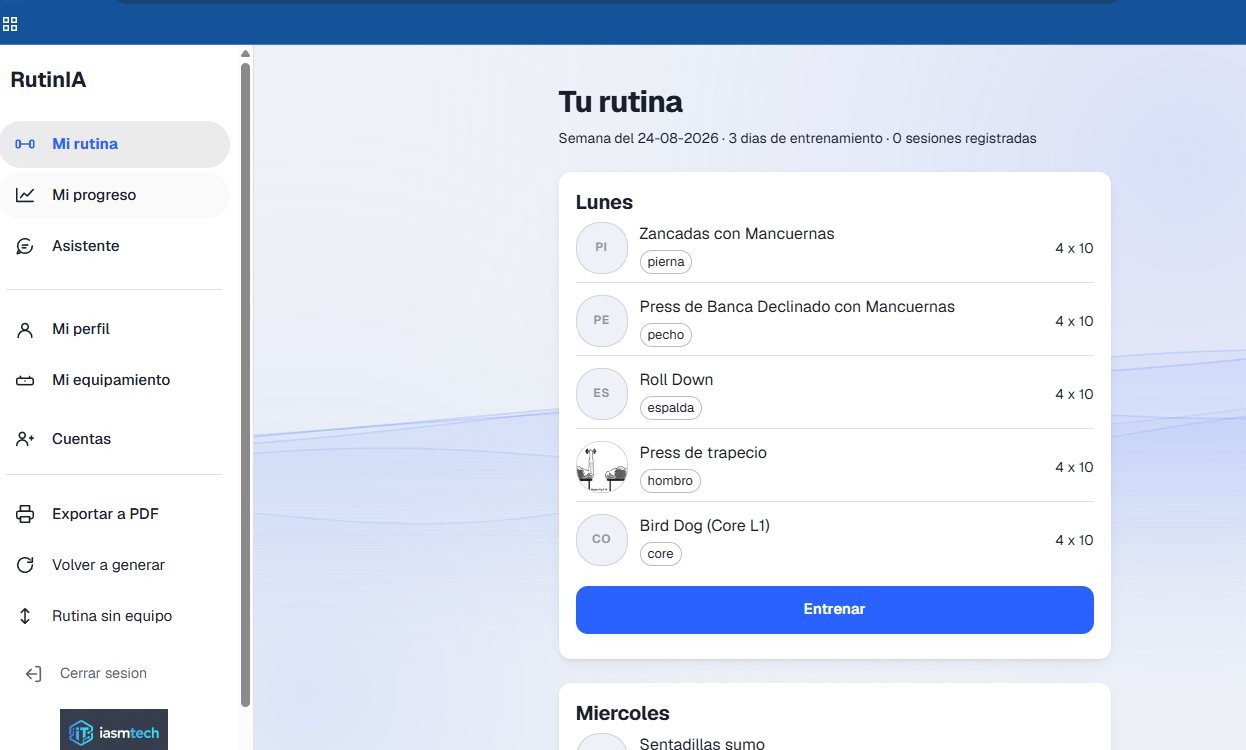
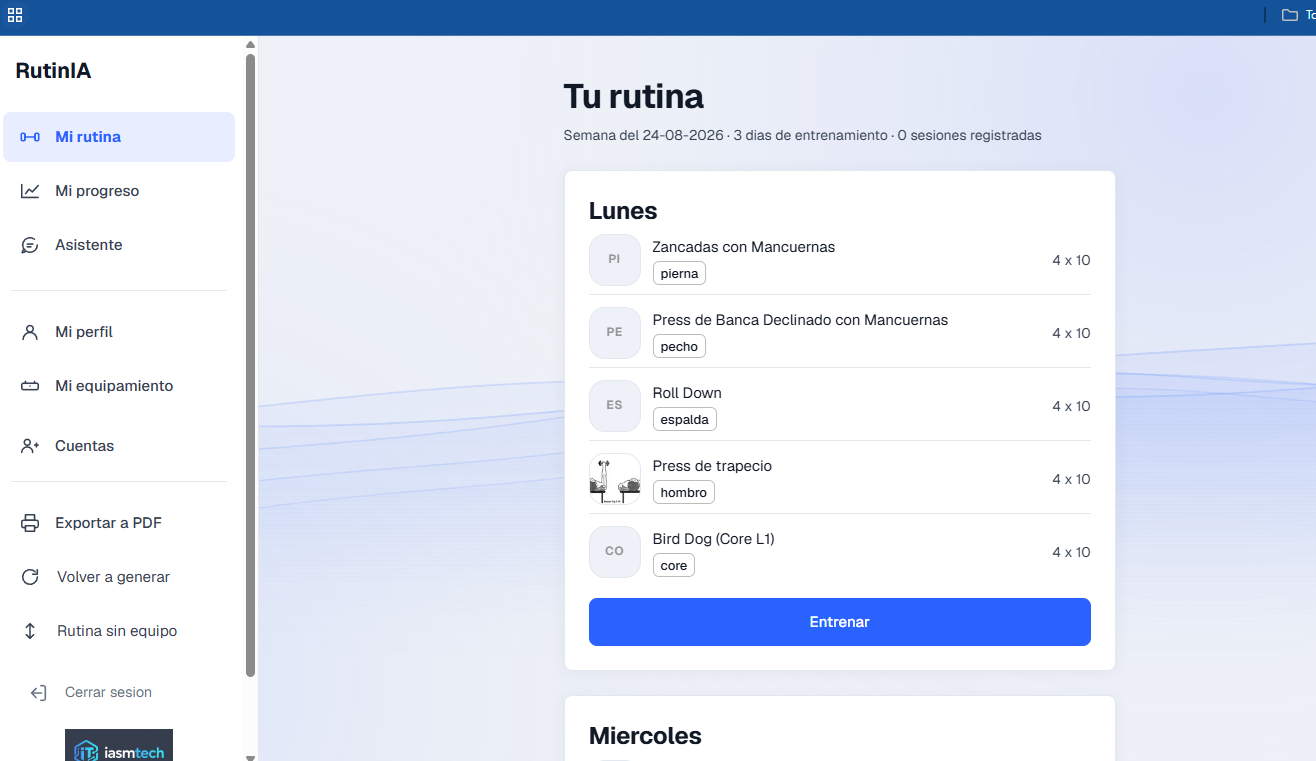
feat: incorporar proyecto RutinIA al portafolio y base de datos

diff --git a/prisma/add-rutinia.ts b/prisma/add-rutinia.ts
@@ -1,0 +1,64 @@
+import 'dotenv/config'
+import { PrismaClient } from '@prisma/client'
+import { PrismaPg } from '@prisma/adapter-pg'
+
+const adapter = new PrismaPg({ connectionString: process.env.DATABASE_URL! })
+const prisma = new PrismaClient({ adapter })
+
+async function main() {
+  const existing = await prisma.project.findFirst({
+    where: {
+      OR: [
+        { title: { contains: 'RutinIA' } },
+        { projectUrl: 'https://rutinia-ten.vercel.app' },
+      ],
+    },
+  })
+
+  const projectData = {
+    title: 'RutinIA — App de Entrenamiento Inteligente',
+    description:
+      'App mobile-first que genera rutinas de entrenamiento personalizadas según tu objetivo y equipamiento, con asistente conversacional IA y seguimiento por fotos.',
+    longDesc:
+      'Desarrollada con Next.js 16 (App Router con Turbopack) y TypeScript, con PostgreSQL serverless en Neon vía Prisma 7. Incluye motor de sobrecarga progresiva sin librerías externas, asistente inteligente con Gemini API y grounding, análisis de postura con MediaPipe Pose en cliente sin costo de servidor, subida de fotos firmada a Cloudinary, recordatorios con Resend y soporte PWA para instalación en el celular y uso offline.',
+    techStack: [
+      'Next.js 16',
+      'Gemini API',
+      'MediaPipe Pose',
+      'PostgreSQL',
+      'Prisma',
+      'TypeScript',
+      'Material UI',
+      'Cloudinary',
+      'Resend',
+      'PWA',
+    ],
+    category: 'APP_MOVIL' as const,
+    featured: true,
+    order: 3,
+    imageUrl: '/assets/rutinia.png',
+    projectUrl: 'https://rutinia-ten.vercel.app',
+    githubUrl: 'https://github.com/IvanSolis2003/RutinIA',
+  }
+
+  if (existing) {
+    const updated = await prisma.project.update({
+      where: { id: existing.id },
+      data: projectData,
+    })
+    console.log('Proyecto RutinIA actualizado:', updated.title)
+  } else {
+    const created = await prisma.project.create({
+      data: projectData,
+    })
+    console.log('Proyecto RutinIA creado:', created.title)
+  }
+}
+
+main()
+  .catch((e) => {
+    console.error(e)
+    process.exit(1)
+  })
+  .finally(() => prisma.$disconnect())
+

diff --git a/prisma/seed.ts b/prisma/seed.ts
@@ -51,6 +51,18 @@ async function main() {
         testRole: 'Administrador',
       },
       {
+        title: 'RutinIA — App de Entrenamiento Inteligente',
+        description: 'App mobile-first que genera rutinas de entrenamiento personalizadas según tu objetivo y equipamiento, con asistente conversacional IA y seguimiento por fotos.',
+        longDesc: 'Desarrollada con Next.js 16 (App Router con Turbopack) y TypeScript, con PostgreSQL serverless en Neon vía Prisma 7. Incluye motor de sobrecarga progresiva sin librerías externas, asistente inteligente con Gemini API y grounding, análisis de postura con MediaPipe Pose en cliente sin costo de servidor, subida de fotos firmada a Cloudinary, recordatorios con Resend y soporte PWA para instalación en el celular y uso offline.',
+        techStack: ['Next.js 16', 'Gemini API', 'MediaPipe Pose', 'PostgreSQL', 'Prisma', 'TypeScript', 'Material UI', 'Cloudinary', 'Resend', 'PWA'],
+        category: 'APP_MOVIL',
+        featured: true,
+        order: 3,
+        imageUrl: '/assets/rutinia.png',
+        projectUrl: 'https://rutinia-ten.vercel.app',
+        githubUrl: 'https://github.com/IvanSolis2003/RutinIA',
+      },
+      {
         title: 'FamilyTasks',
         description: 'Aplicación web para gestión colaborativa de tareas familiares. Asignación de responsables, fechas límite y seguimiento de progreso.',
         longDesc: 'Desarrollada con Next.js 14 y TypeScript, con Drizzle ORM sobre PostgreSQL serverless en Neon. Incluye autenticación familiar con Auth.js, asignación de tareas por miembro, recordatorios por correo con Resend e imágenes en Cloudinary.',

diff --git a/prisma/update-images.ts b/prisma/update-images.ts
@@ -12,6 +12,7 @@ const images: Record<string, string> = {
   'Vidriería Demo — Cotizador y Panel Autogestionable': '/assets/vidrieria.png',
   'Davielle Orfebres — E-commerce de Joyería': '/assets/davielle.png',
   'Bóveda Personal — Gestor Seguro de Credenciales': '/assets/boveda.png',
+  'RutinIA — App de Entrenamiento Inteligente': '/assets/rutinia.png',
 }
 
 async function main() {
